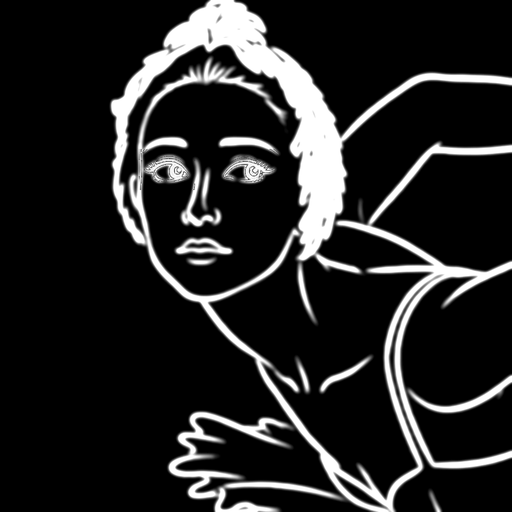
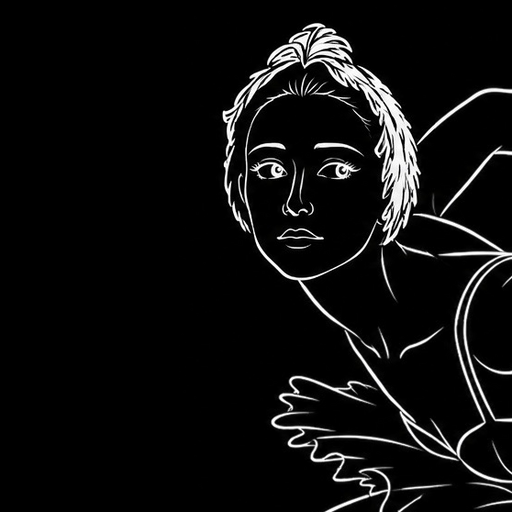
Place the ballerina’s left eye on the upper-right third

Changed region(s): [[0.2188, 0.0, 1.0, 1.0]]

diff --git a/parter/static/index.html b/parter/static/index.html
@@ -8,7 +8,7 @@
   <meta name="apple-mobile-web-app-title" content="Les Loisirs" />
   <meta name="theme-color" content="#0C0B0E" />
   <link rel="manifest" href="/manifest.webmanifest" />
-  <link rel="apple-touch-icon" sizes="180x180" href="/static/apple-touch-icon.png?v=72" />
+  <link rel="apple-touch-icon" sizes="180x180" href="/static/apple-touch-icon.png?v=73" />
   <title>Les Loisirs</title>
   <script>
     (function () {
